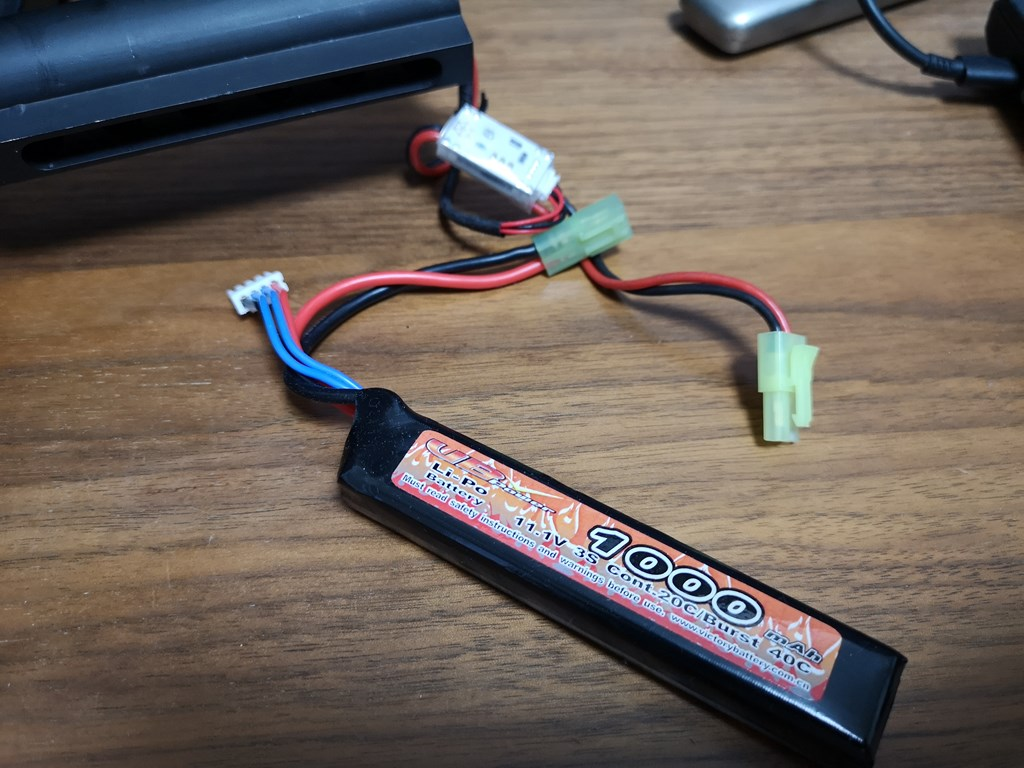
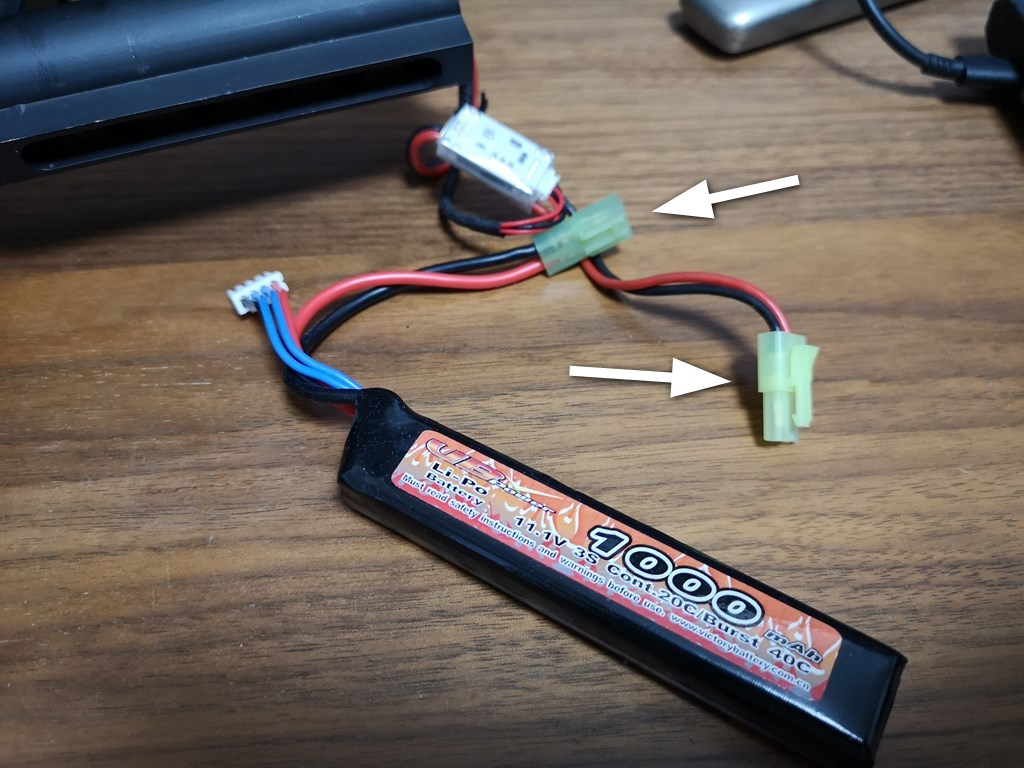
update

Changed region(s): [[0.625, 0.2188, 0.7812, 0.3125], [0.5312, 0.4688, 0.7188, 0.5312]]

diff --git a/posts/airsoft_tamiya2xt30u/index.html b/posts/airsoft_tamiya2xt30u/index.html
@@ -77,7 +77,8 @@
 			<p>うちのチームでエアガンのコネクタを交換するブームが来てたので、自分もちょっと乗ってみました。<br>
 実はタミヤコネクタは電機流量が少なくて、交換すると効率が上がってサイクル上がったりするらしいのですよ。<br>
 今回はARP9（内部メンテ済）+11.1Vリポバッテリーの組み合わせでやってみたのです。
-<img src="/s-IMG_20201017_154922.jpg" alt="ARP9とバッテリー"></p>
+<img src="/s-IMG_20201017_154922.jpg" alt="ARP9とバッテリー">
+<img src="/s-IMG_20201017_154910.jpg" alt="タミヤコネクタ"></p>
 <hr>
 <h3 id="交換前">交換前</h3>
 <p><img src="/s-IMG_20201017_155048.jpg" alt="バッテリー残量">
@@ -92,10 +93,12 @@
 交換後はサイクル25.2発、86.33m/s</p>
 <hr>
 <h3 id="交換結果と感想">交換結果と感想</h3>
-<p>サイクル（24.7発→25.2発（+0.5発））<br>
-初速（85.21→86.33m/s（+1.12m/s））<br>
+<p>サイクル（毎秒 24.7発→25.2発（+0.5発））<br>
+初速（85.21m/s→86.33m/s（+1.12m/s））<br>
 サイクル伸びたけど、それより初速が伸びた方が驚きですな。勢いが良くなってピストンをより引けてるのか？<br>
-コネクタ小さくなったから取り回し良くなるかと思ったけど、収縮チューブがカチカチになるからあんまり取り回し変わらんかった。収縮チューブはもう少し短い方がよかったのかも。</p>
+コネクタ小さくなったから取り回し良くなるかと思ったけど、収縮チューブがカチカチになるからあんまり取り回し変わらんかった。収縮チューブはもう少し短い方がよかったのかも。<br>
+あと、いわゆるキレについて。これはすでにPERUN ETU Upgrade KITが入ってるので、すでにプリコックだからあまり気にしてなかった。交換前にプリコック解除状態でデータとっておけばよかった。もう変えちゃったし戻したくない。
+コネクタは余ってるから今度他の銃いじるときには気にしてみる。</p>
 
 		</div>
 
